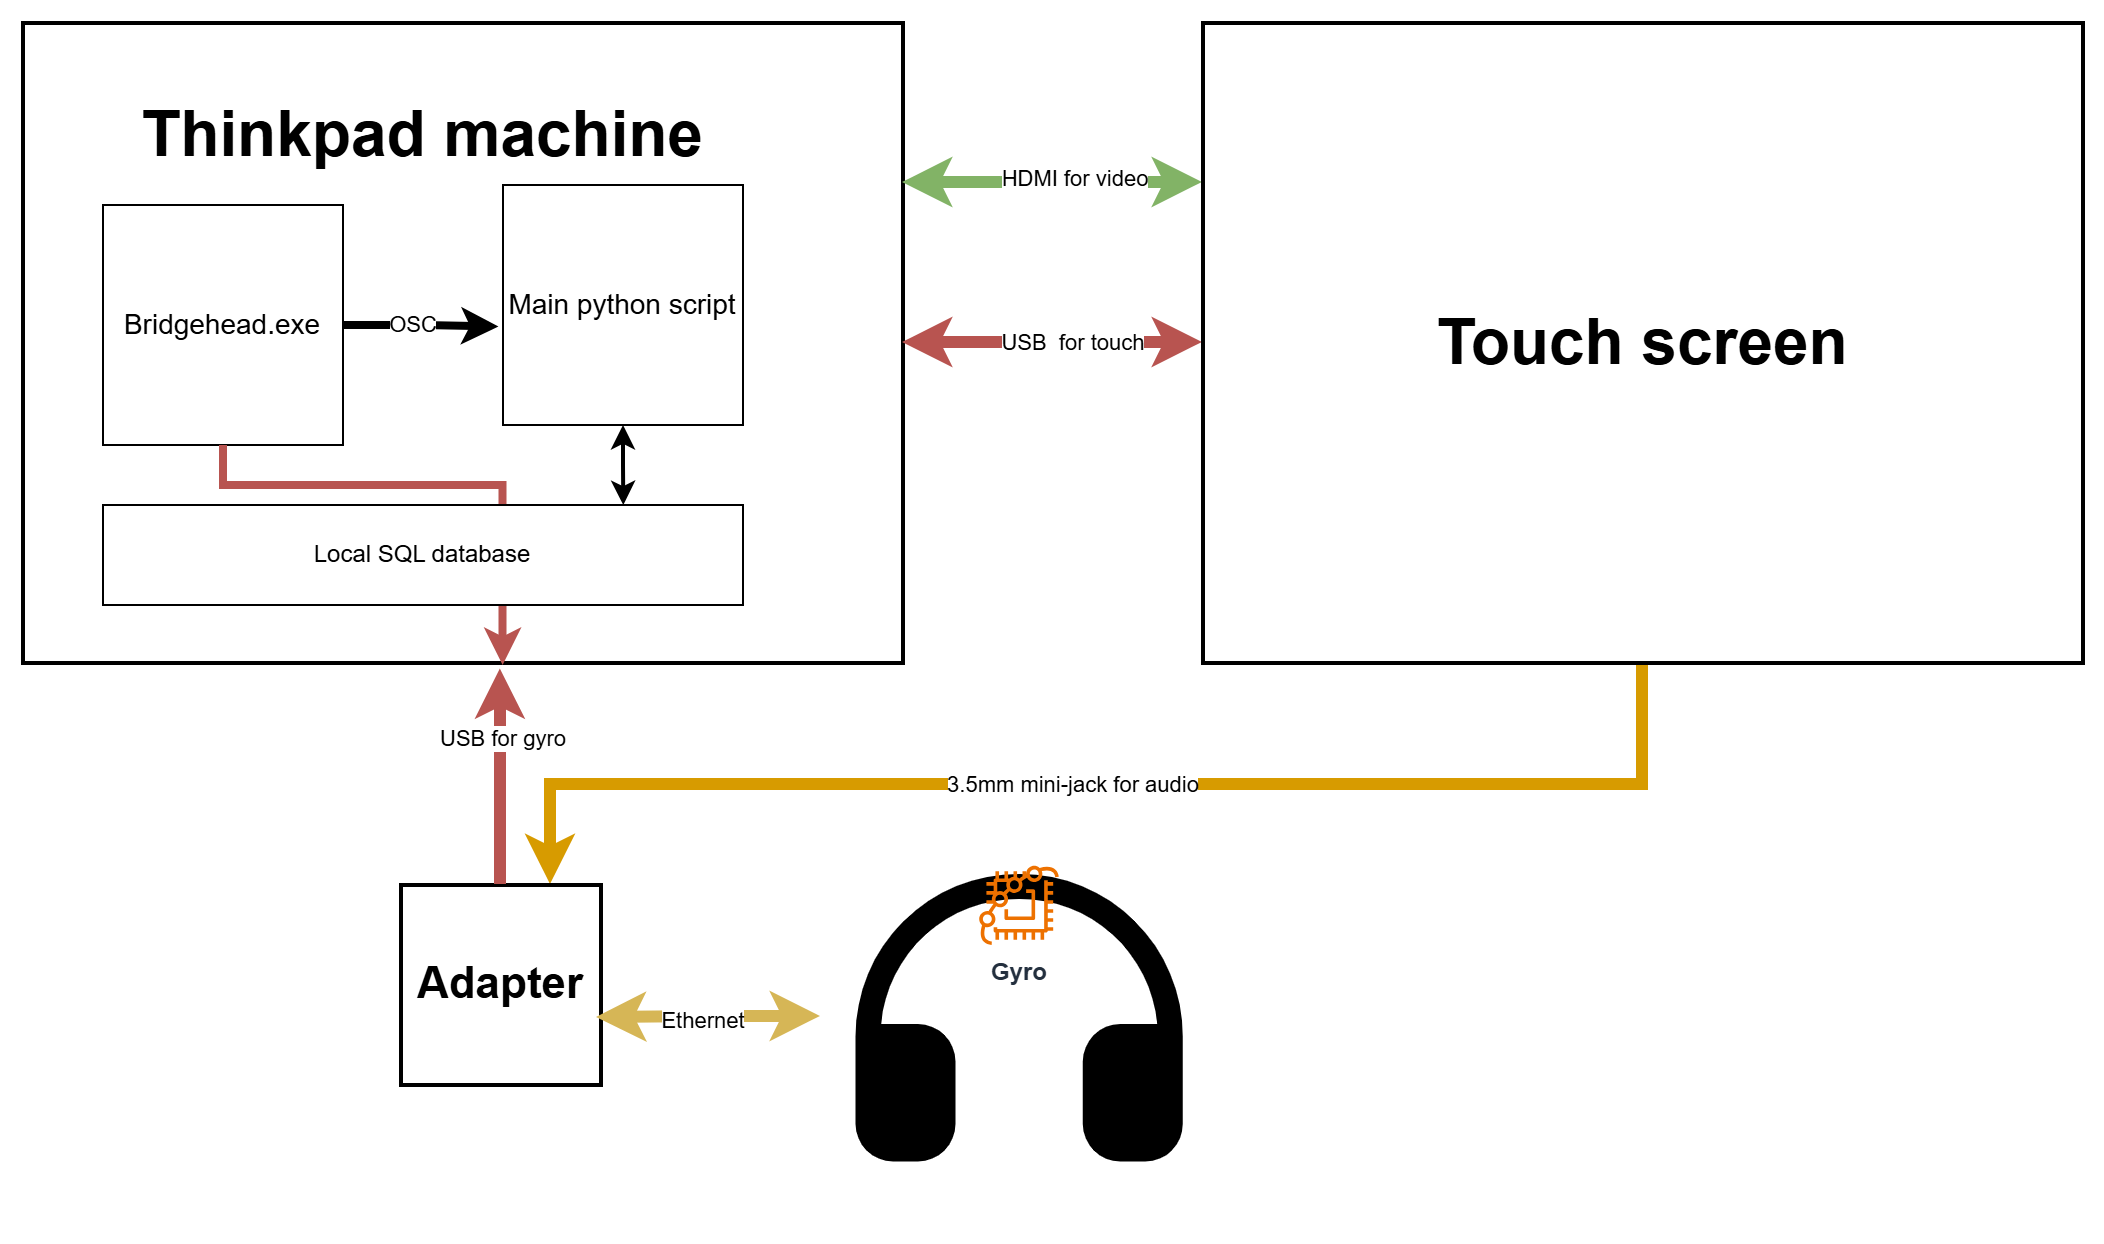
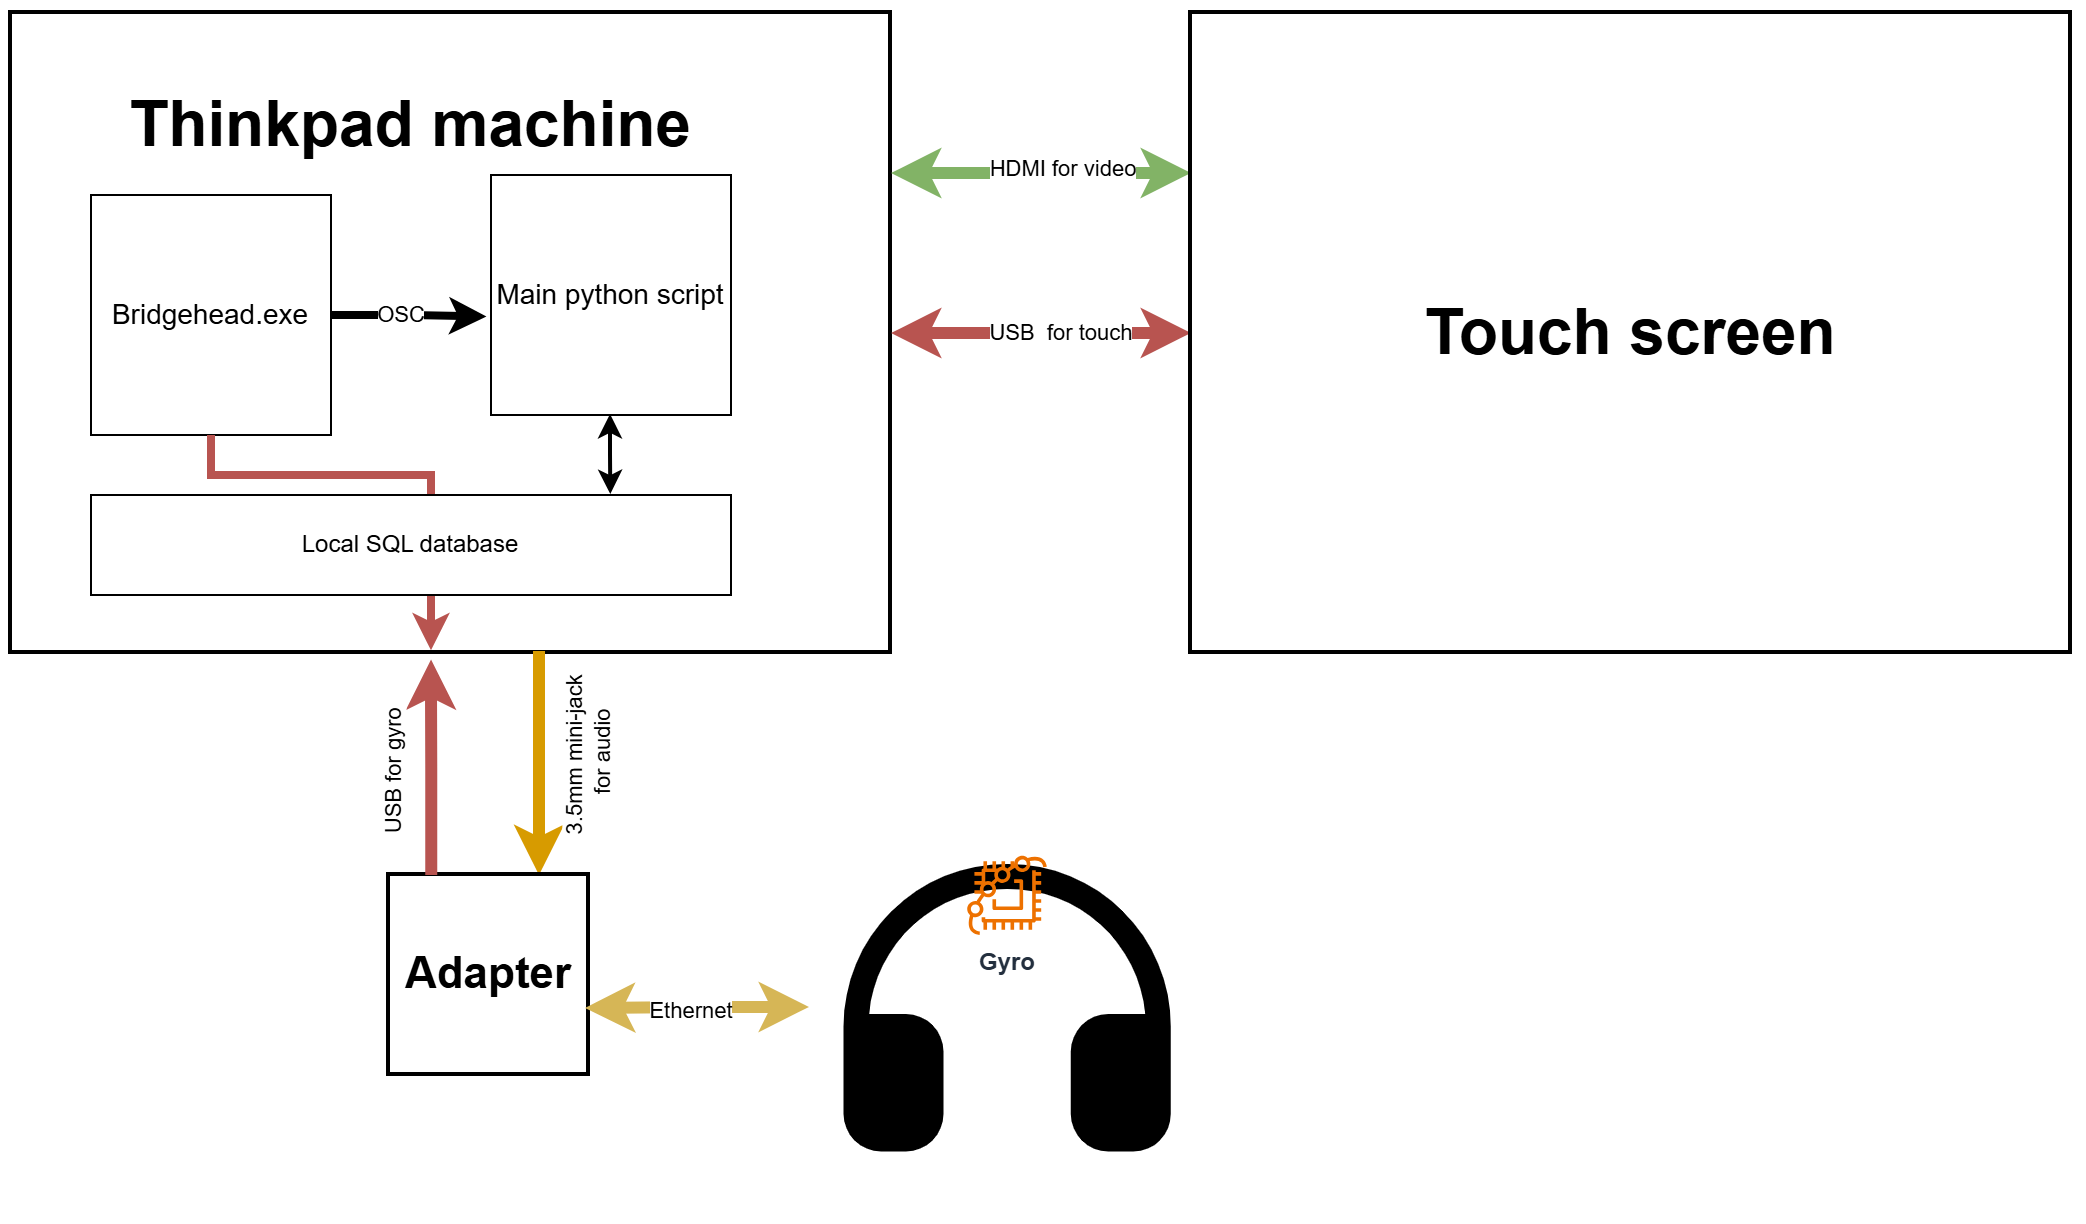
Documentation updates

diff --git a/README.md b/README.md
@@ -46,7 +46,7 @@ To be able to run the standstill code, basically, ensure that:
 
 1. The SQL server is configured to run in the background on boot. This is default with local installations, I think. But good to check anyways. 
 3. Run the bridge application ```./Bridgehead.exe``` and ensure that the “Quaternion (composite)” profile is selected under setting, and that the tracking rate is set to 10kHz. This enables the app to send the XYZ gyro data to the Python script over OSC port 8000. To reset the gyro calibration, place the headphones is the correct zero-position and double-click the red head in the bridgehead app interface.
-4. That "Headphones" is selected as the speaker source in Windows audio settings. Should be automatic when headphones are connected, but good to check anyways.
+4. That "Speakers" is selected as the speaker source in Windows audio settings. Yes, this bring audio to the headphones. For some reason. It should be automatic when headphones are connected, but good to check anyways. 
 
 Finally, open the Terminal and run:
 ```
@@ -56,9 +56,9 @@ Finally, open the Terminal and run:
 
 ## Startup Routine
 
-On the installation machine itself, further steps are taken so that the standstill application can run smoothly for weeks and months on-end (at least in theory). First, the main Windows user is set to log in automatically on boot (no password or anything required). Second, all Windows sleep/power settings are turned off so the machine never goes to sleep. Finally, two recurring tasks are created, ensuring that the machine reboots every night at 3:00 a.m and, consequently, that the main Python script (main.py) runs automatically when the machine starts. The reboot is necessary to "clear out the trash", especially when so many things are running concurrently on a Windows system.
+On the installation machine itself, further steps are taken so that the standstill application can run smoothly for weeks and months on end (at least in theory). First, the main Windows user is set to log in automatically on boot (no password or anything required). Second, all Windows sleep/power settings are turned off so the machine never goes to sleep. Finally, two recurring tasks are created, ensuring that the machine reboots every night (at 3:00am) and that the main Python script (main.py) starts automatically when the machine boots. The reboot is necessary to clear memory and mitigate freezes that _will_ occur at some point.
 
-There are many ways to do this, but on our machine, we schedule this startup routine through the Windows Task Scheduler. To locate this software, it's easiest to right-click on the Windows icon and launch the Computer Management app. From here, you will see the Task Scheduler. To run the main Python script on boot, create a new task that runs a Program whenever the system "logs in", so just after a reboot. Then, specify the full path to your Python interpreter in the "Program" box and the full path to main.py script in the "Arguments" box. It can also be useful to set the full path to the standstill folder in the “Starts in” box and encapsulate the commands in quotation marks. 
+There are many ways to schedule recurrent tasks in Windows, but I thought it best to do this through Windows' native Task Scheduler. To locate this software, it's easiest to right-click on the Windows icon and launch the Computer Management app. To run the main Python script on boot, create a new task that runs a Program whenever the system "logs in", so just after a reboot. Then, specify the full path to your Python interpreter in the "Program" box and the full path to the main.py script in the "Arguments" box. It can also be useful to set the full path to the standstill folder in the “Starts in” box and encapsulate the commands in quotation marks. 
 
 Finally, the Bridgehead application is also scheduled to run at boot. However, since this app is a full executable (.exe), a shortcut of the application is simply placed inside the Windows Startup folder. This is enough for Windows to run it whenever the machine starts. To locate the Startup folder, hit ```Win+r``` and write ```shell:startup```. 
 
